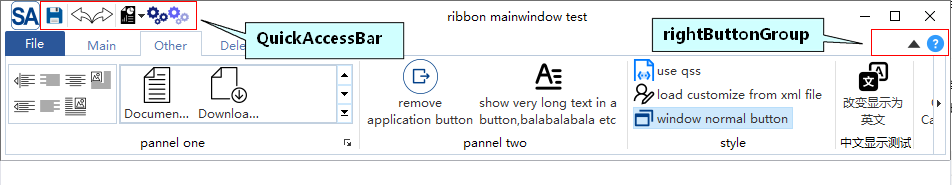
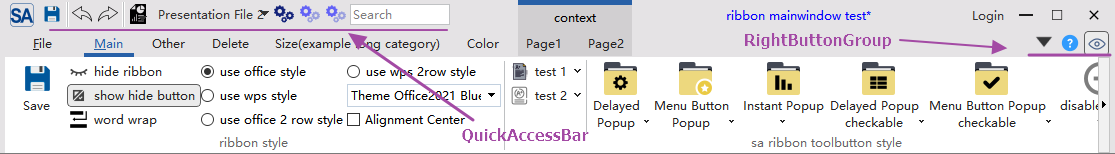
更新文档

diff --git a/readme-cn.md b/readme-cn.md
@@ -44,16 +44,13 @@ QQ交流群:434014314
 
 - 针对Ribbon的布局和显示
 
-![Ribbon的布局和显示](./doc/screenshot/SARibbonBar-overview.gif)
+![Ribbon的布局和显示](./doc/screenshot/SARibbonBar-overview.png)
 
 - 支持最小化模式，ribbon只显示标签（默认双击标签会进行切换）,支持上下文标签tab
 
 ![SARibbon最小化模式](./doc/screenshot/SARibbonBar-minMode.gif)
 
-- 支持quickAccessBar（word快速菜单），在不同布局模式下会有不同的显示效果
-
-![SARibbon-quickAccessBar](./doc/screenshot/SARibbonBar-quickAccessBar.gif)
-
+- 支持quickAccessBar（word快速菜单）和rightButtonGroup，在不同布局模式下会有不同的显示效果
 - 支持4种不同的ribbon button，普通按钮，延迟弹出菜单按钮，菜单按钮，action菜单按钮（action菜单按钮是此ribbon控件最主要解决的问题之一）
 
 ![SARibbon-4种不同的ribbon button](./doc/screenshot/SARibbonBar-ribbonbutton.gif)
@@ -62,7 +59,7 @@ QQ交流群:434014314
 
 ![SARibbon-4种不同风格的布局样式](./doc/screenshot/SARibbonBar-style.gif)
 
-- 支持qss对ribbon进行自定义设置，可实时切换主题,内置了5种不同风格的主题
+- 支持qss对ribbon进行自定义设置，可实时切换主题,内置了6种不同风格的主题
 
 win7主题：
 ![SARibbon-theme-win7](./doc/screenshot/SARibbon-theme-win7.png)
@@ -74,10 +71,12 @@ office2021主题：
 ![SARibbon-theme-office2021](./doc/screenshot/SARibbon-theme-office2021.png)
 dark主题：
 ![SARibbon-theme-dark](./doc/screenshot/SARibbon-theme-dark.png)
+dark2主题：
+![SARibbon-theme-dark](./doc/screenshot/SARibbon-theme-dark2.png)
 
 - 提供Gallery控件
 
-![](./doc/screenshot/SARibbonBar-gallery.gif)
+![](./doc/screenshot/SARibbonBar-gallery.png)
 
 - 支持超长滚动和Option Action
 
@@ -330,8 +329,6 @@ Ribbon的图标有大有小，通过`addLargeAction`、`addMediumAction`、`addS
 
 具体可见[./example/MainWindowExample/mainwindow.cpp](./example/MainWindowExample/mainwindow.cpp)
 
-
-
 ### ContextCategory 上下文标签
 
 所谓上下文标签是指在特殊情况下才出现的标签/标签组，例如office word在选中图片时会出现图片编辑的上下文标签，如下图所示：
@@ -364,9 +361,9 @@ SARibbonCategory* contextCategoryPage2 = m_contextCategory->addCategoryPage(tr("
 ......
 ```
 
-由`SARibbonContextCategory`创建的`SARibbonCategory`归`SARibbonContextCategory`管理，只有`SARibbonContextCategory`“显示了”,其管理的`SARibbonCategory`才显示，**注意：** `SARibbonContextCategory`并不是一个窗口，所以，它的“显示”打了引号
+由`SARibbonContextCategory`创建的`SARibbonCategory`归`SARibbonContextCategory`管理，`SARibbonContextCategory`可以管理一组标签,**注意：** `SARibbonContextCategory`并不是一个窗口，仅仅是一组标签页的管理
 
-要显示一个上下文只需要调用`SARibbonBar::showContextCategory`/`SARibbonBar::hideContextCategory`即可:
+显示一个上下文调用`SARibbonBar::showContextCategory`/`SARibbonBar::hideContextCategory`:
 
 ```cpp
 void MainWindow::onShowContextCategory(bool on)
@@ -382,6 +379,8 @@ void MainWindow::onShowContextCategory(bool on)
 **注意：** 如果要删除`contextCategory`需要调用`SARibbonBar::destroyContextCategory`，而不是直接delete，调用`SARibbonBar::destroyContextCategory`之后无需再对ContextCategory的指针delete
 
 不同样式的contextCategory有不一样的风格，具体可见：[SARibbon样式](#SARibbon样式)以及[不同样式下的显示对比](#不同样式下的显示对比)
+
+上下文标签的显示会有特殊的颜色进行标记，上下文标签的颜色可以由`SARibbonBar::setContextCategoryColorList`进行设置
 
 ### ApplicationButton
 
